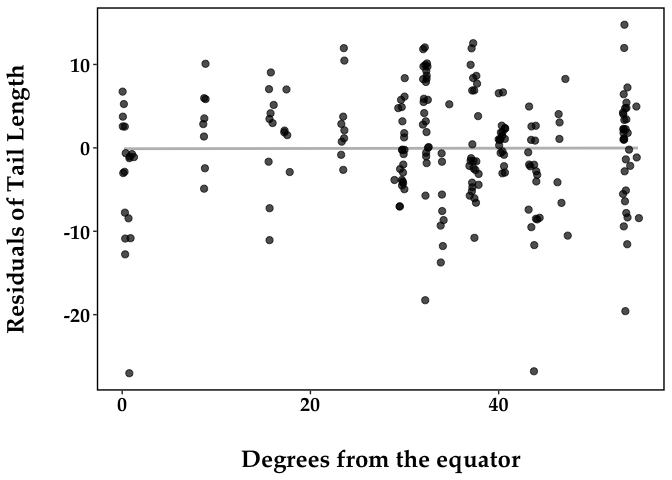
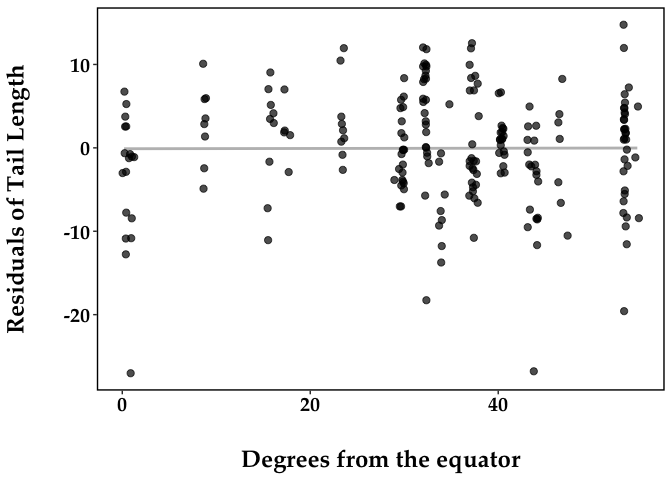
Updated Nachman lab plots

diff --git a/exploratory/NachmanLab_transects.md b/exploratory/NachmanLab_transects.md
@@ -3,6 +3,17 @@ Bergmann’s Rule and Allen’s Rule in Nachman Lab latitudinal transects
 Mallory A. Ballinger
 2/15/2021
 
+### Overview
+
+Determine if house mice show Bergmann’s rule and Allen’s rule using
+specimens collected by the Nachman Lab. House mice have been collected
+across a broad latitudinal distribution in the Americas, as part of a
+large lab project - [“Environmental adaptation in introduced populations
+of house mice, Mus musculus, across the
+Americas”](http://arctos.database.museum/project/10001341).
+
+### Bergmann’s rule (using body weight)
+
     ## 
     ## Call:
     ## lm(formula = WEIGHT ~ ABS_LAT, data = NachmanTransectsMetadata)
@@ -38,7 +49,7 @@ Mallory A. Ballinger
     ##       rho 
     ## 0.3404738
 
-## Plot Bergmann’s rule: body mass by absolute latitude
+##### Plot Bergmann’s rule: body weight X absolute latitude
 
 ``` r
 Berg<-
@@ -101,7 +112,10 @@ Berg_Sex
 
 ![](NachmanLab_transects_files/figure-gfm/Bergmann_sex-1.png)<!-- -->
 
-#### Strong and clear evidence for Bergmann’s rule in wild-caught “Nachman Lab” house mice across the Americas
+There is strong and clear evidence for Bergmann’s rule in wild-caught
+“Nachman Lab” house mice across the Americas
+
+### Allen’s rule (using tail length)
 
 ``` r
 #### check data to ensure they are normally distributed
@@ -211,7 +225,7 @@ plot(Nachman_TailData$ABS_LAT, resTLBW)
 plot(Resids_TLBW~ABS_LAT, data = Nachman_TailData)
 ```
 
-## Plot Allen’s rule: Tail length residuals by absolute latitude
+##### Plot Allen’s rule: Tail length residuals X absolute latitude
 
 ``` r
 Tail_Allen <-
@@ -241,9 +255,11 @@ Tail_Allen
 
 ![](NachmanLab_transects_files/figure-gfm/Allen_plot-1.png)<!-- -->
 
-#### Unlike Bergmann’s rule, there is no clear evidence for Allen’s rule (i.e. tail length) in wild-caught “Nachman Lab” house mice across the Americas
+Unlike Bergmann’s rule, there is no clear evidence for Allen’s rule
+(i.e. tail length) in wild-caught “Nachman Lab” house mice across the
+Americas
 
-## Some stats
+### Some stats
 
 ``` r
 ## Bergmann
@@ -337,85 +353,4 @@ summary(lm_resTLBW)
     ## Multiple R-squared:  1.263e-05,  Adjusted R-squared:  -0.004772 
     ## F-statistic: 0.00264 on 1 and 209 DF,  p-value: 0.9591
 
-    ## Warning: Removed 3 rows containing non-finite values (stat_smooth).
-
-    ## Warning: Removed 3 rows containing missing values (geom_point).
-
-``` r
-#### check data to ensure they are normally distributed ####
-hist(NachmanTransectsMetadata$BODY_LENGTH, breaks = 25)
-```
-
-``` r
-lmBL <- lm(BODY_LENGTH~ABS_LAT, data=NachmanTransectsMetadata)
-summary(lmBL)
-```
-
-    ## 
-    ## Call:
-    ## lm(formula = BODY_LENGTH ~ ABS_LAT, data = NachmanTransectsMetadata)
-    ## 
-    ## Residuals:
-    ##     Min      1Q  Median      3Q     Max 
-    ## -24.950  -5.532   0.383   5.458  19.177 
-    ## 
-    ## Coefficients:
-    ##             Estimate Std. Error t value Pr(>|t|)    
-    ## (Intercept) 86.92724    1.40901  61.694   <2e-16 ***
-    ## ABS_LAT     -0.03704    0.03849  -0.962    0.337    
-    ## ---
-    ## Signif. codes:  0 '***' 0.001 '**' 0.01 '*' 0.05 '.' 0.1 ' ' 1
-    ## 
-    ## Residual standard error: 8.446 on 210 degrees of freedom
-    ##   (3 observations deleted due to missingness)
-    ## Multiple R-squared:  0.004391,   Adjusted R-squared:  -0.0003503 
-    ## F-statistic: 0.9261 on 1 and 210 DF,  p-value: 0.337
-
-``` r
-plot(lmBL$residuals)
-```
-
-``` r
-hist(lmBL$residuals, breaks = 25) # looks normally distributed!
-```
-
-``` r
-#### check for outliers ####
-plot(NachmanTransectsMetadata$BODY_LENGTH~NachmanTransectsMetadata$ABS_LAT)
-abline(40,0, col="red")
-abline(120,0, col="red")
-```
-
-``` r
-tempBL<-as.data.frame(lmBL$residuals)
-tempBL<-tempBL[order(tempBL$`lmBL$residuals`),] # puts residuals in order from small->large
-plot(tempBL)
-```
-
-``` r
-# body lengths below 63 seem like outliers
-
-# Outlier test on full data
-out_BL_full<-boxplot.stats(NachmanTransectsMetadata$BODY_LENGTH)$out
-out_BL_full
-```
-
-    ## [1] 60 62 62
-
-``` r
-plot(NachmanTransectsMetadata$BODY_LENGTH)
-abline(60,0, col="red") #sample points are in order (index)
-abline(120,0, col="red")
-```
-
-``` r
-# body lengths below 63 are beyond the -20 residuals (perhaps remove them? There are 3 samples....Seems like for sure remove the body length of 60mm)
-```
-
 ##### How correlated are Body Weight and Body Length?
-
-``` r
-plot(NachmanTransectsMetadata$WEIGHT~NachmanTransectsMetadata$BODY_LENGTH) # seems like some longer body lengths have smaller body weights, "skewing" the correlation
-```
-
-![](NachmanLab_transects_files/figure-gfm/BW~bodylength-1.png)<!-- -->
